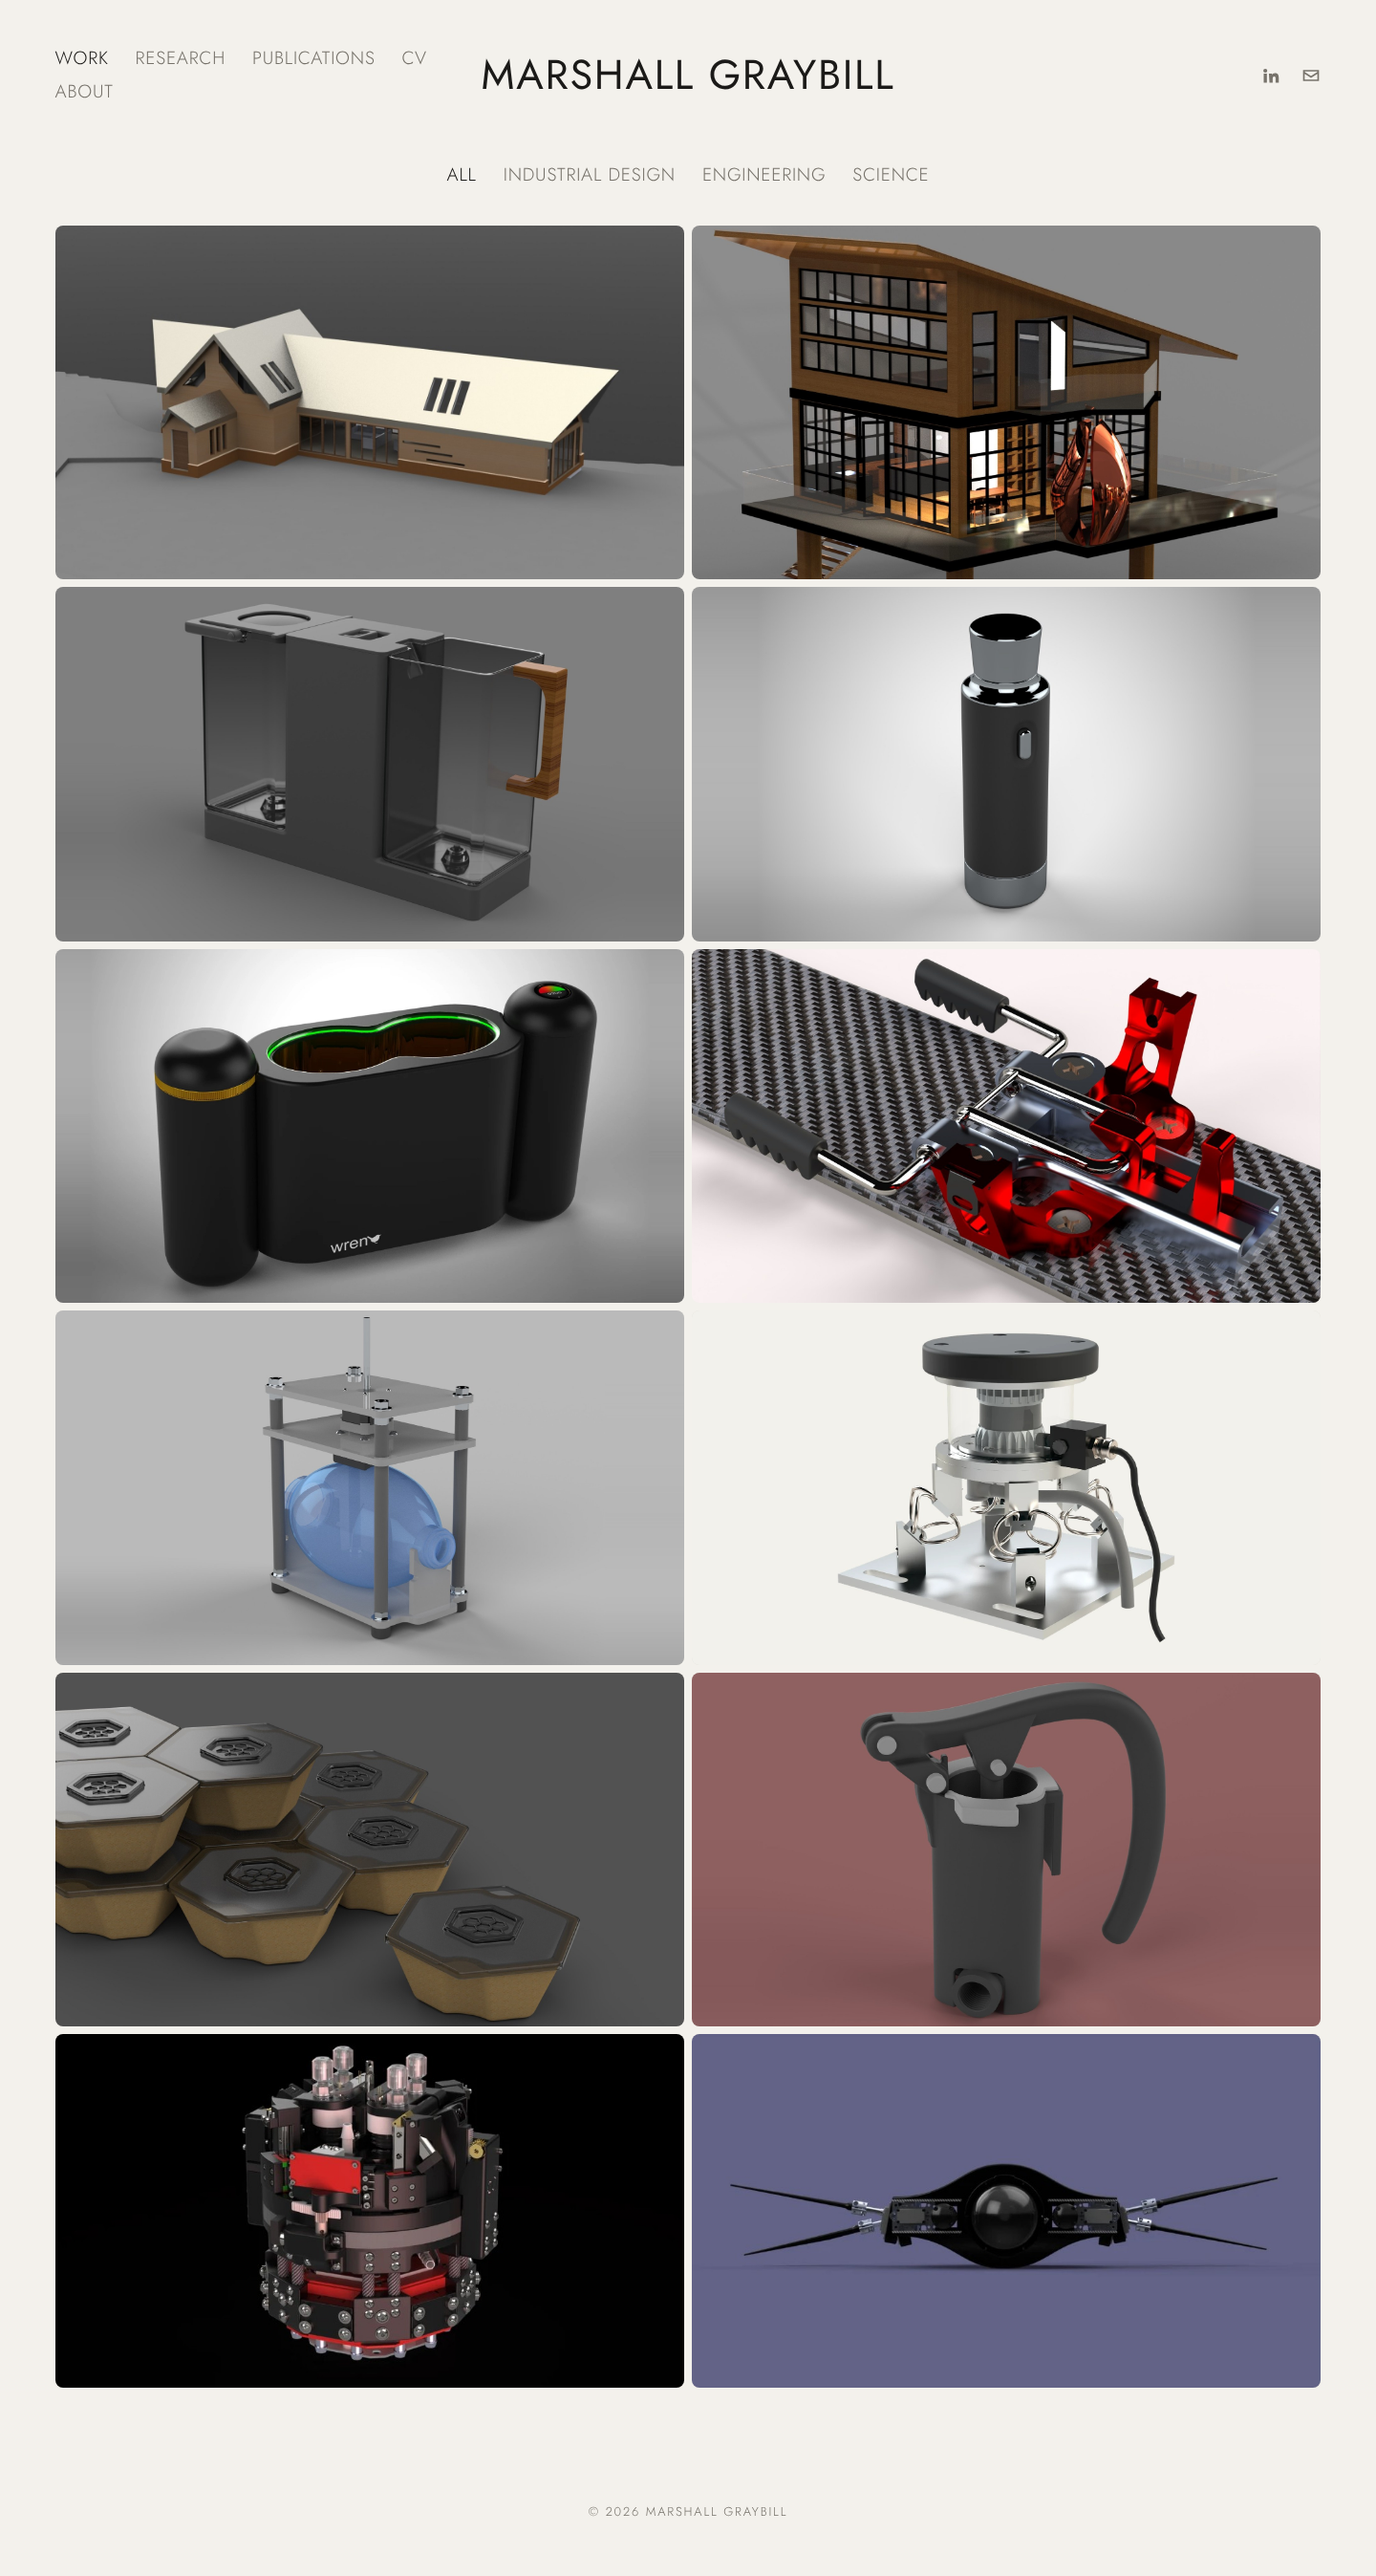
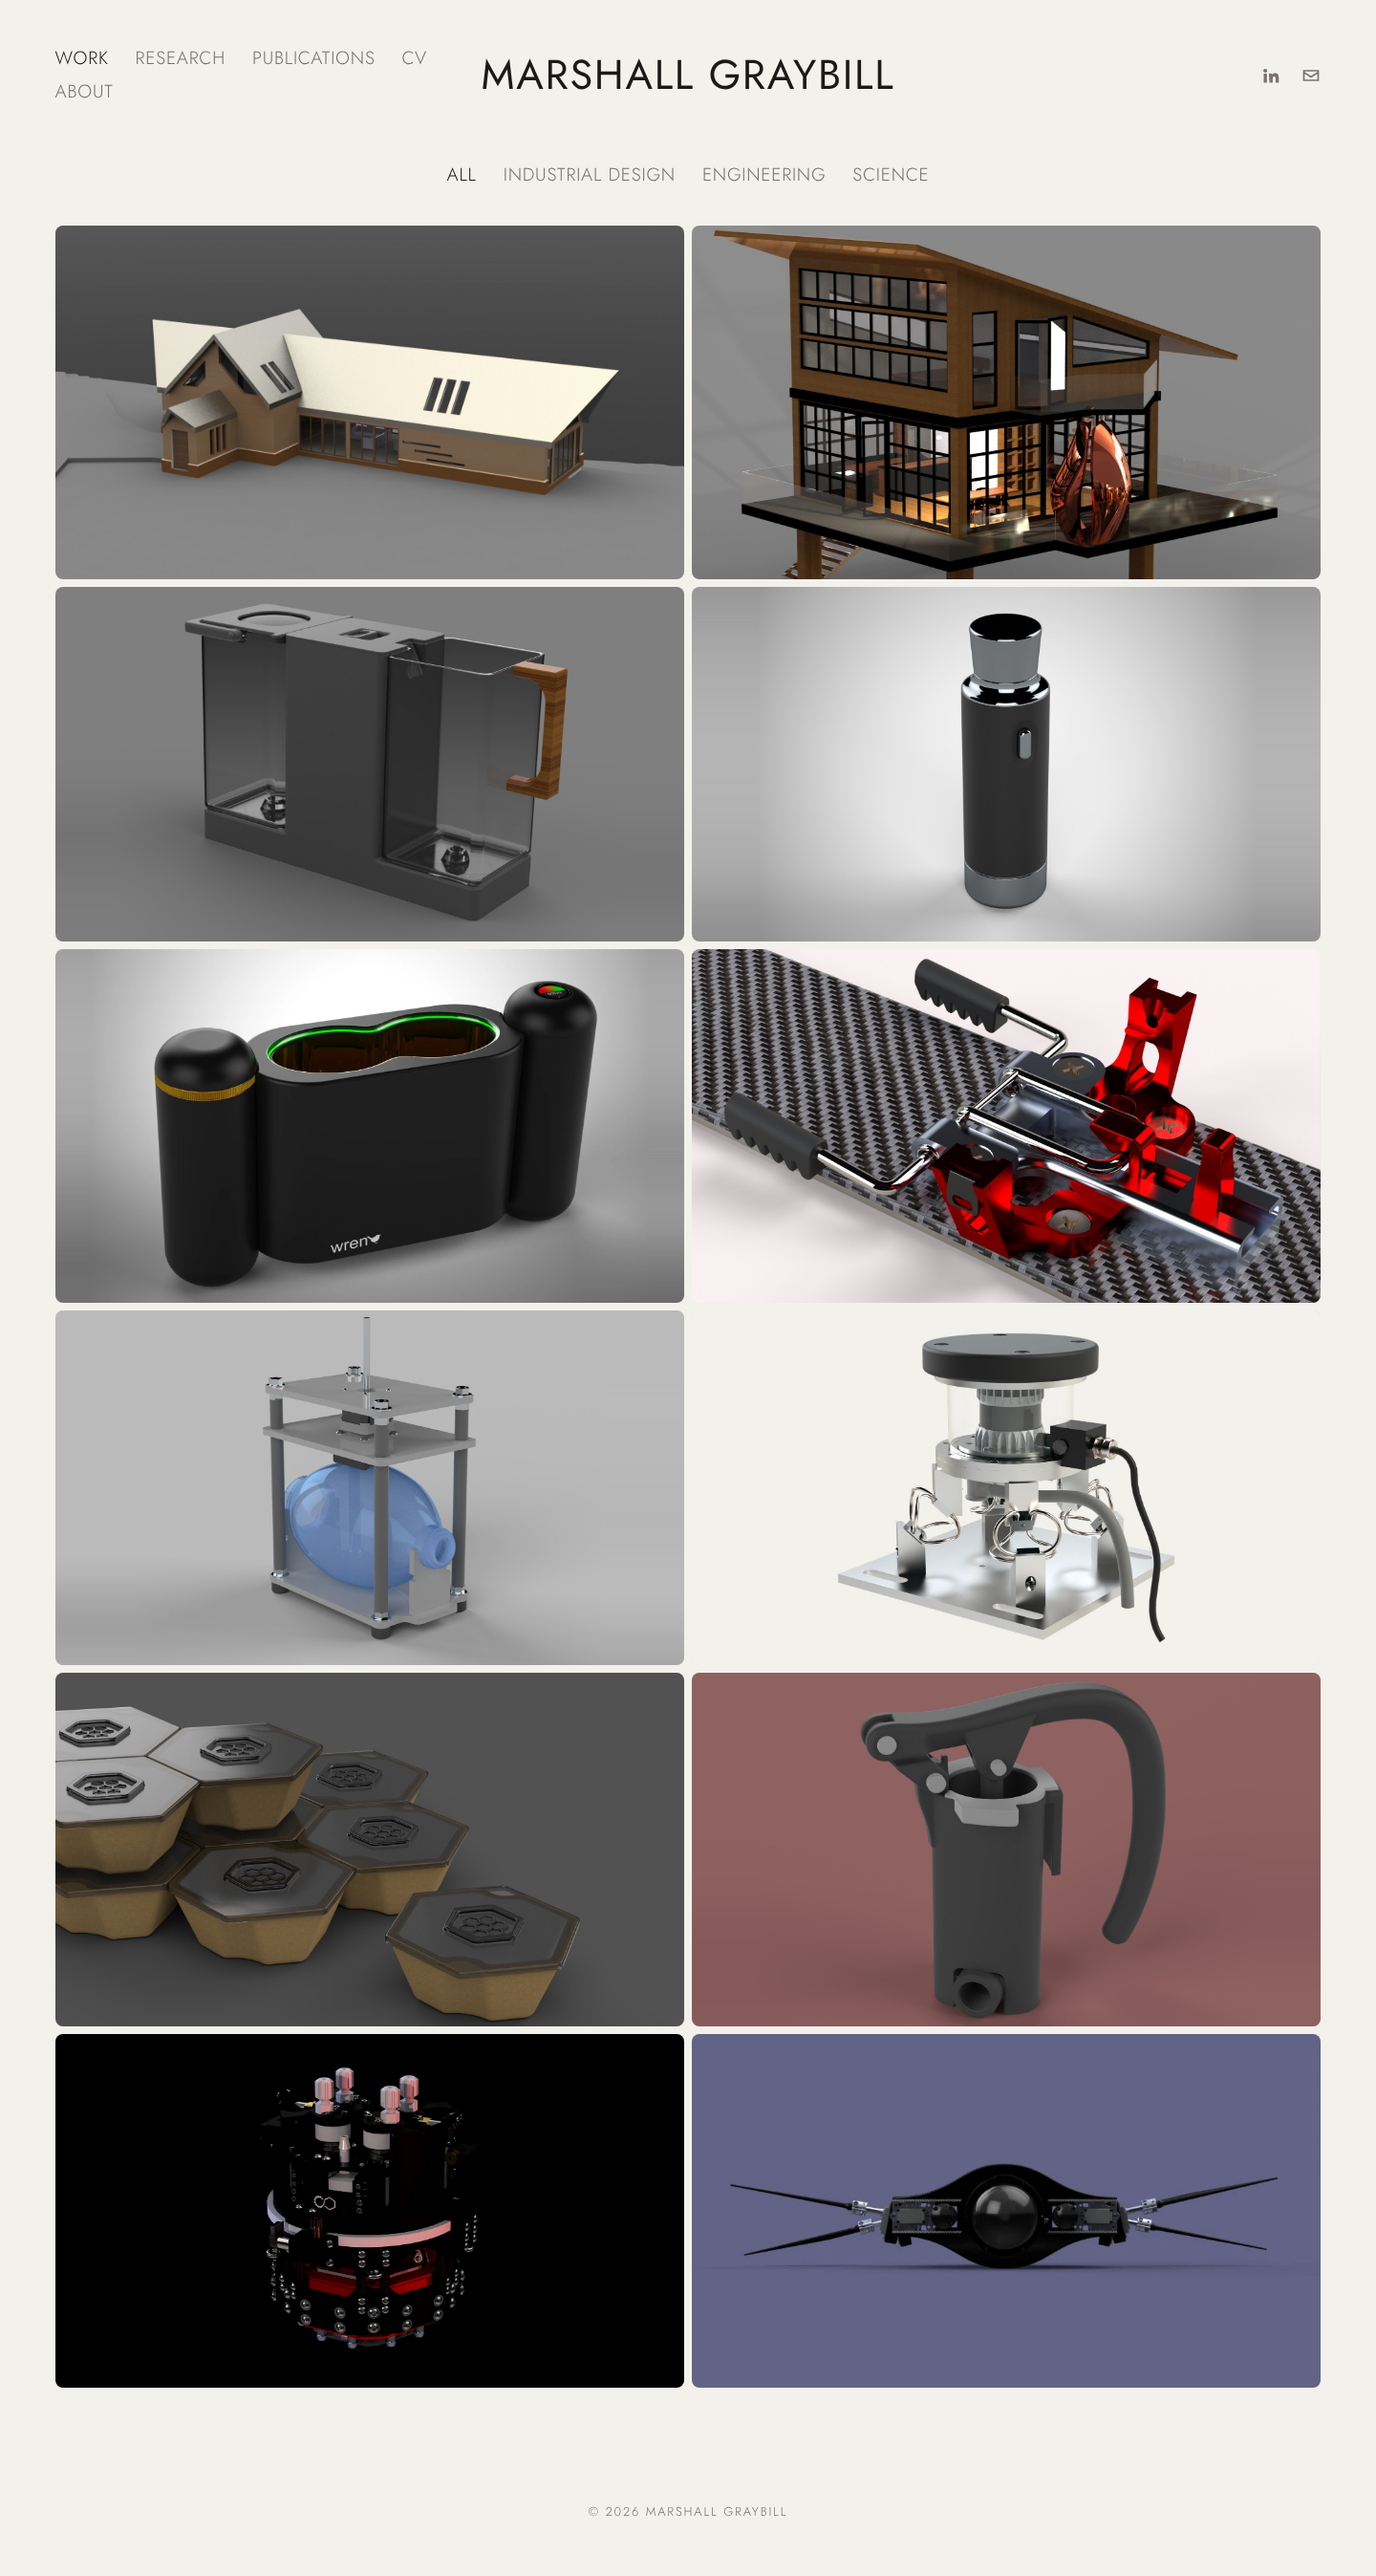
Add Chembotix project page with renders on black; replace reactor placeholder
Claude-Session: https://claude.ai/code/session_01FRyJPBebUtKmxdzujR9oGm

Changed region(s): [[0.1562, 0.7792, 0.375, 0.9351]]

diff --git a/projects/chembotix.html b/projects/chembotix.html
@@ -1,0 +1,69 @@
+<!doctype html>
+<html lang="en">
+<head>
+  <meta charset="utf-8">
+  <meta name="viewport" content="width=device-width, initial-scale=1">
+  <title>Chembotix · Marshall Graybill</title>
+  <meta name="description" content="Chembotix: a lab-bench robot that automates multi-stage chemical R&amp;D, and its solenoid-driven, temperature-controlled chemical reactor.">
+  <link rel="preconnect" href="https://fonts.googleapis.com">
+  <link rel="preconnect" href="https://fonts.gstatic.com" crossorigin>
+  <link href="https://fonts.googleapis.com/css2?family=Jost:wght@300;400&display=swap" rel="stylesheet">
+  <link rel="stylesheet" href="../css/style.css">
+</head>
+<body>
+
+<header class="site-header">
+  <nav class="nav" aria-label="Main">
+    <a class="on" href="../index.html">Work</a>
+    <a href="../research.html">Research</a>
+    <a href="../publications.html">Publications</a>
+    <a href="../cv.html">CV</a>
+    <a href="../about.html">About</a>
+  </nav>
+  <a class="name" href="../index.html">Marshall Graybill</a>
+  <div class="icons">
+    <a href="#" aria-label="LinkedIn"><svg viewBox="0 0 24 24" fill="currentColor"><path d="M4.98 3.5a2.5 2.5 0 1 1 0 5 2.5 2.5 0 0 1 0-5zM3 9.5h4V21H3zM9.5 9.5h3.8v1.6h.06c.53-1 1.83-2.06 3.77-2.06 4.03 0 4.77 2.65 4.77 6.1V21h-4v-5.1c0-1.22-.02-2.79-1.7-2.79-1.7 0-1.96 1.33-1.96 2.7V21h-4z"/></svg></a>
+    <a href="mailto:" aria-label="Email"><svg viewBox="0 0 24 24" fill="currentColor"><path d="M2 5h20v14H2zm2 2v.5l8 5 8-5V7zm0 2.86V17h16V9.86l-8 5z"/></svg></a>
+  </div>
+</header>
+
+<main class="project">
+  <section class="project-head">
+    <div class="kicker">Engineering · Science · Lab Automation</div>
+    <h1 class="logo" style="max-width:min(200px,45vw)"><img src="../images/projects/chembotix/chembotix-logo.png" alt="Chembotix"></h1>
+    <p><em>The Future of Chemistry</em></p>
+    <p>At Chembotix, we are developing robotic solutions to streamline labor-intensive chemical R&amp;D. Our technologies improve the efficiency of multi-stage reactions, making chemical development faster, safer, and more cost-effective. Whether you're in pharmaceuticals, energy systems, or other industries, we offer the innovative solutions you need to advance the future of chemistry in your field.</p>
+    <p>Our proprietary lab bench-sized robot automates the entire process, from accepting chemical ingredients in sealed containers to dispensing them into reactors, performing reactions, conducting chromatography on the resulting mixtures, and analyzing the results with an onboard spectroscopy unit.</p>
+  </section>
+
+  <ul class="features">
+    <li><span>01</span>Accepts ingredients in sealed containers</li>
+    <li><span>02</span>Dispenses into reactors and runs reactions</li>
+    <li><span>03</span>Chromatography on the resulting mixtures</li>
+    <li><span>04</span>Onboard spectroscopy analysis</li>
+  </ul>
+
+  <div class="shots" style="margin-top:56px">
+    <div class="row fit">
+      <figure style="--ar:0.853"><img src="../images/projects/chembotix/reactor-front.jpg" alt="Chembotix chemical reactor from the front: black frame with red base, carbon fiber rods, and two vial lids with hose fittings" loading="lazy"><figcaption>Front</figcaption></figure>
+      <figure style="--ar:0.798"><img src="../images/projects/chembotix/reactor-three-quarter.jpg" alt="Three-quarter view of the reactor showing four vial lids, condensers, and the drive gear" loading="lazy"><figcaption>Three-quarter · four vial lids</figcaption></figure>
+      <figure style="--ar:0.853"><img src="../images/projects/chembotix/reactor-low.jpg" alt="Low-angle view of the reactor showing the solenoid ring and base fittings" loading="lazy"><figcaption>Low angle · solenoid ring and base</figcaption></figure>
+    </div>
+  </div>
+
+  <section class="story">
+    <h2>Chemical Reactor</h2>
+    <p>The Chembotix chemical reactor is a groundbreaking design, offering continuously adjustable frequency and amplitude mixing. This innovation allows chemicals to be mixed in real-time as they are added. This functionality is achieved through six solenoids fixed within the main frame, surrounding the reactor's core. By sequentially actuating the solenoids at adjustable amplitudes and frequencies, the spring-suspended core is moved in a circular motion.</p>
+    <p>The reactor's core features six Peltier pads and liquid temperature control blocks, providing active cooling and heating of the chemical mixtures. Carbon fiber rods insulate the upper section from the lower temperature-controlled section. The upper section houses an internal copper reflux condenser mounted to the inner side of the four vial lids, along with an external reflux condenser that encapsulates the upper half of the vials.</p>
+    <p>The vial lids are motor-driven, moving vertically before rotating outwards to accommodate the internal condensers. A ring-lock mechanism securely fastens the vial lids during operation at above-atmospheric pressures. Additionally, the internal vial pressure can be adjusted using a hose fitting mounted on the top of the lid, enabling precise control over certain chemical reactions.</p>
+  </section>
+
+  <nav class="pager" aria-label="Projects">
+    <a href="clarity-pump.html">← Clarity Water Pump</a>
+    <a href="../index.html">All work →</a>
+  </nav>
+</main>
+
+<footer class="site-footer">© Marshall Graybill</footer>
+</body>
+</html>

diff --git a/index.html b/index.html
@@ -90,11 +90,12 @@
     <div class="cap"><span>Engineering · Product Design</span><h3>Clarity Water Pump</h3></div>
   </a>
 
-  <!-- Placeholders below: images cropped from the old site until full-size files are added -->
-  <a class="tile" href="#" data-tags="eng sci">
-    <img src="images/projects/placeholder/mechanism.jpg" alt="">
-    <div class="cap"><span>Engineering · Science</span><h3>Project Title</h3></div>
+  <a class="tile" href="projects/chembotix.html" data-tags="eng sci">
+    <img src="images/projects/chembotix/cover.jpg" alt="Chembotix chemical reactor render">
+    <div class="cap"><span>Engineering · Science</span><h3>Chembotix</h3></div>
   </a>
+
+  <!-- Placeholders below: images cropped from the old site until full-size files are added -->
   <a class="tile" href="#" data-tags="eng">
     <img src="images/projects/placeholder/drone.jpg" alt="">
     <div class="cap"><span>Engineering</span><h3>Project Title</h3></div>

diff --git a/projects/clarity-pump.html b/projects/clarity-pump.html
@@ -50,7 +50,7 @@
 
   <nav class="pager" aria-label="Projects">
     <a href="spent.html">← Spent Packaging</a>
-    <a href="../index.html">All work →</a>
+    <a href="chembotix.html">Next: Chembotix →</a>
   </nav>
 </main>
 
